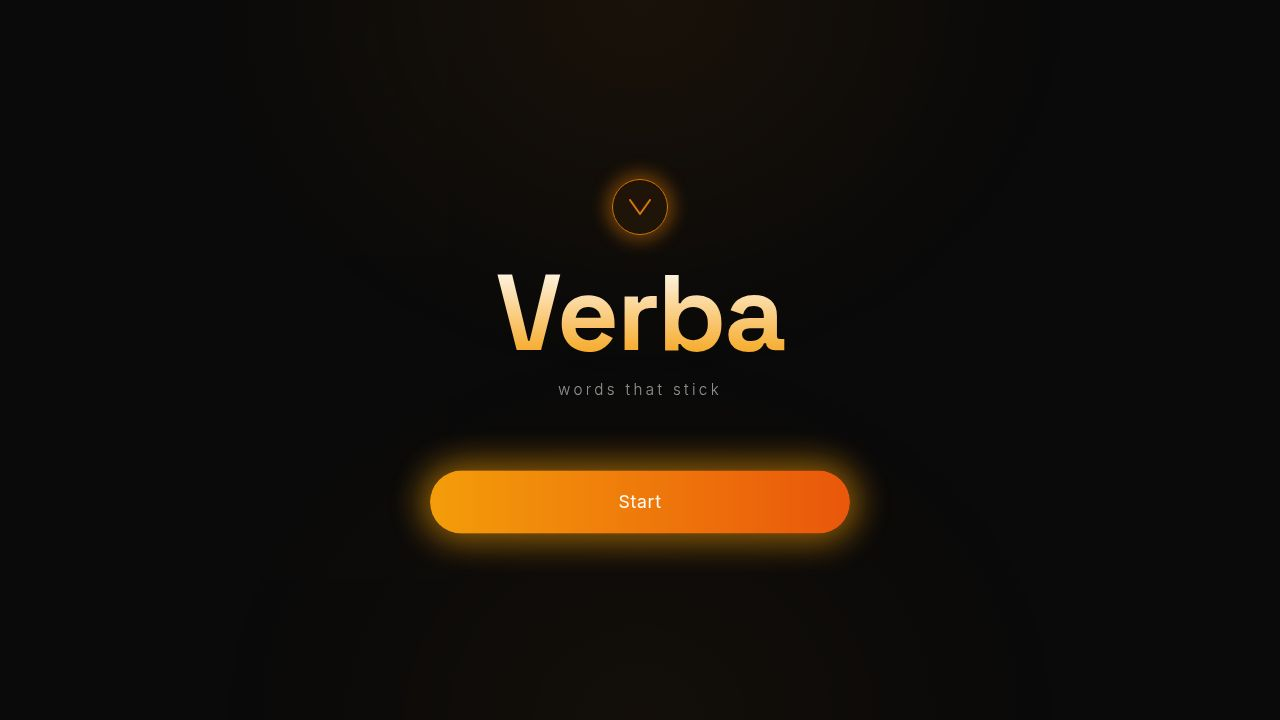
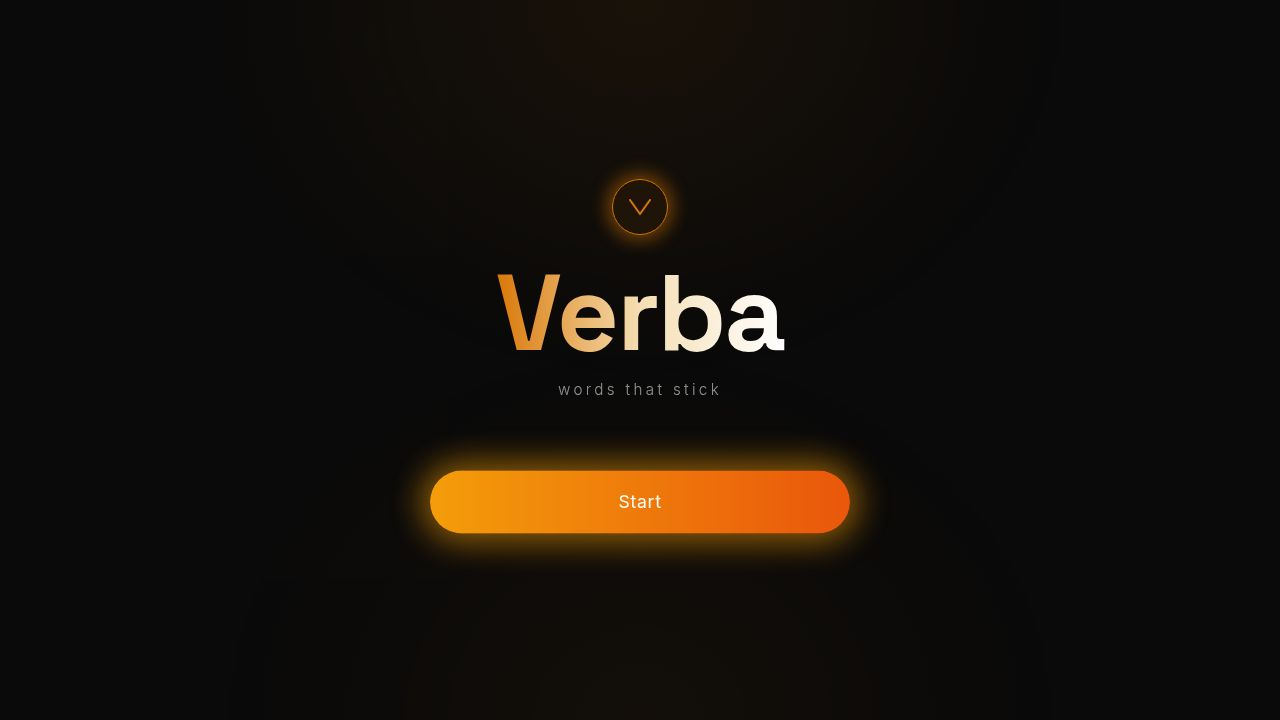
Refine title gradient and add depth to floating words
Update `WelcomeScreen.tsx` to implement a horizontal linear gradient for the title, add 10 GRE vocabulary words with varying opacity and size for a depth effect, and structure the words into a `FLOATING_WORDS` constant.

Replit-Commit-Author: Agent
Replit-Commit-Session-Id: df65bbc4-f2ac-461e-8b8d-806bec35a160
Replit-Commit-Checkpoint-Type: full_checkpoint
Replit-Commit-Event-Id: 27070e70-0ad2-46b7-9ed3-facd14cbdb1b
Replit-Commit-Screenshot-Url: https://storage.googleapis.com/screenshot-production-us-central1/9786917f-dcc6-410b-a0d3-8773357c6155/df65bbc4-f2ac-461e-8b8d-806bec35a160/6Qm5HHO
Replit-Helium-Checkpoint-Created: true

Changed region(s): [[0.375, 0.3667, 0.625, 0.4889]]

diff --git a/artifacts/verba/src/pages/WelcomeScreen.tsx b/artifacts/verba/src/pages/WelcomeScreen.tsx
@@ -1,17 +1,23 @@
-import { motion, useAnimation } from "framer-motion";
-import { useEffect, useState } from "react";
+import { motion } from "framer-motion";
+import { useState } from "react";
 
+// TODO: Replace with dynamic list of user's recently missed words from database (Step 4)
 const FLOATING_WORDS = [
-  { word: "luminous", x: "72%", y: "8%", delay: 0.6 },
-  { word: "ephemeral", x: "5%", y: "20%", delay: 0.8 },
-  { word: "cogent", x: "76%", y: "42%", delay: 1.0 },
-  { word: "liminal", x: "3%", y: "48%", delay: 0.7 },
-  { word: "reverie", x: "68%", y: "72%", delay: 0.9 },
-  { word: "ineffable", x: "8%", y: "78%", delay: 1.1 },
-  { word: "sanguine", x: "60%", y: "88%", delay: 1.3 },
-  { word: "querulous", x: "15%", y: "12%", delay: 1.2 },
-  { word: "tenuous", x: "82%", y: "60%", delay: 0.5 },
-  { word: "obsequious", x: "20%", y: "88%", delay: 1.4 },
+  // Higher opacity (~0.5) — feel "closer"
+  { word: "luminous",    x: "70%",  y: "7%",  delay: 0.6,  opacity: 0.5,  fontSize: "0.82rem" },
+  { word: "ephemeral",   x: "4%",   y: "22%", delay: 0.8,  opacity: 0.48, fontSize: "0.8rem"  },
+  { word: "cogent",      x: "75%",  y: "44%", delay: 1.0,  opacity: 0.5,  fontSize: "0.82rem" },
+
+  // Medium opacity (~0.3) — standard depth
+  { word: "liminal",     x: "2%",   y: "50%", delay: 0.7,  opacity: 0.3,  fontSize: "0.75rem" },
+  { word: "reverie",     x: "66%",  y: "74%", delay: 0.9,  opacity: 0.32, fontSize: "0.77rem" },
+  { word: "querulous",   x: "14%",  y: "10%", delay: 1.2,  opacity: 0.28, fontSize: "0.73rem" },
+  { word: "sanguine",    x: "58%",  y: "90%", delay: 1.3,  opacity: 0.3,  fontSize: "0.75rem" },
+
+  // Lower opacity (~0.15) — feel "further away"
+  { word: "ineffable",   x: "6%",   y: "80%", delay: 1.1,  opacity: 0.16, fontSize: "0.68rem" },
+  { word: "tenuous",     x: "80%",  y: "62%", delay: 0.5,  opacity: 0.15, fontSize: "0.67rem" },
+  { word: "obsequious",  x: "18%",  y: "90%", delay: 1.4,  opacity: 0.14, fontSize: "0.66rem" },
 ];
 
 function FloatingWord({
@@ -19,11 +25,15 @@ function FloatingWord({
   x,
   y,
   delay,
+  opacity,
+  fontSize,
 }: {
   word: string;
   x: string;
   y: string;
   delay: number;
+  opacity: number;
+  fontSize: string;
 }) {
   return (
     <motion.span
@@ -34,23 +44,23 @@ function FloatingWord({
         top: y,
         fontFamily: "'Inter', sans-serif",
         fontWeight: 300,
-        fontSize: "0.75rem",
-        letterSpacing: "0.12em",
+        fontSize,
+        letterSpacing: "0.13em",
         color: "#D97706",
-        textShadow: "0 0 12px rgba(217, 119, 6, 0.6), 0 0 24px rgba(217, 119, 6, 0.3)",
+        textShadow: "0 0 10px rgba(217, 119, 6, 0.55), 0 0 22px rgba(217, 119, 6, 0.25)",
         whiteSpace: "nowrap",
       }}
       initial={{ opacity: 0 }}
       animate={{
-        opacity: [0, 0.45, 0.35, 0.45],
-        y: [0, -6, 0, 6, 0],
+        opacity: [0, opacity, opacity * 0.75, opacity],
+        y: [0, -5, 0, 5, 0],
       }}
       transition={{
         delay,
-        duration: 8,
+        duration: 9,
         repeat: Infinity,
         ease: "easeInOut",
-        times: [0, 0.3, 0.5, 0.7, 1],
+        times: [0, 0.25, 0.5, 0.75, 1],
       }}
     >
       {word}
@@ -69,7 +79,7 @@ function LogoMark() {
       transition={{ duration: 0.4, ease: "easeOut" }}
     >
       <motion.div
-        className="absolute inset-0 rounded-full"
+        className="absolute inset-0"
         animate={{
           boxShadow: [
             "0 0 12px 4px rgba(217, 119, 6, 0.35)",
@@ -78,9 +88,7 @@ function LogoMark() {
           ],
         }}
         transition={{ duration: 3, repeat: Infinity, ease: "easeInOut" }}
-        style={{
-          borderRadius: "50%",
-        }}
+        style={{ borderRadius: "50%" }}
       />
       <div
         style={{
@@ -120,10 +128,11 @@ function VerbaTitle() {
         fontWeight: 700,
         fontSize: "clamp(72px, 18vw, 108px)",
         lineHeight: 1,
-        background: "linear-gradient(180deg, #FFFFFF 0%, #F59E0B 100%)",
+        background: "linear-gradient(to right, #D97706 0%, #F5DEB3 50%, #FFFFFF 100%)",
         WebkitBackgroundClip: "text",
         WebkitTextFillColor: "transparent",
         backgroundClip: "text",
+        color: "transparent",
         letterSpacing: "-0.02em",
         margin: 0,
         padding: 0,
@@ -218,9 +227,7 @@ function BackgroundHalos() {
     <>
       <motion.div
         aria-hidden
-        animate={{
-          opacity: [0.25, 0.45, 0.25],
-        }}
+        animate={{ opacity: [0.25, 0.45, 0.25] }}
         transition={{ duration: 4, repeat: Infinity, ease: "easeInOut" }}
         style={{
           position: "absolute",
@@ -237,15 +244,8 @@ function BackgroundHalos() {
       />
       <motion.div
         aria-hidden
-        animate={{
-          opacity: [0.2, 0.4, 0.2],
-        }}
-        transition={{
-          duration: 4,
-          repeat: Infinity,
-          ease: "easeInOut",
-          delay: 2,
-        }}
+        animate={{ opacity: [0.2, 0.4, 0.2] }}
+        transition={{ duration: 4, repeat: Infinity, ease: "easeInOut", delay: 2 }}
         style={{
           position: "absolute",
           bottom: 0,